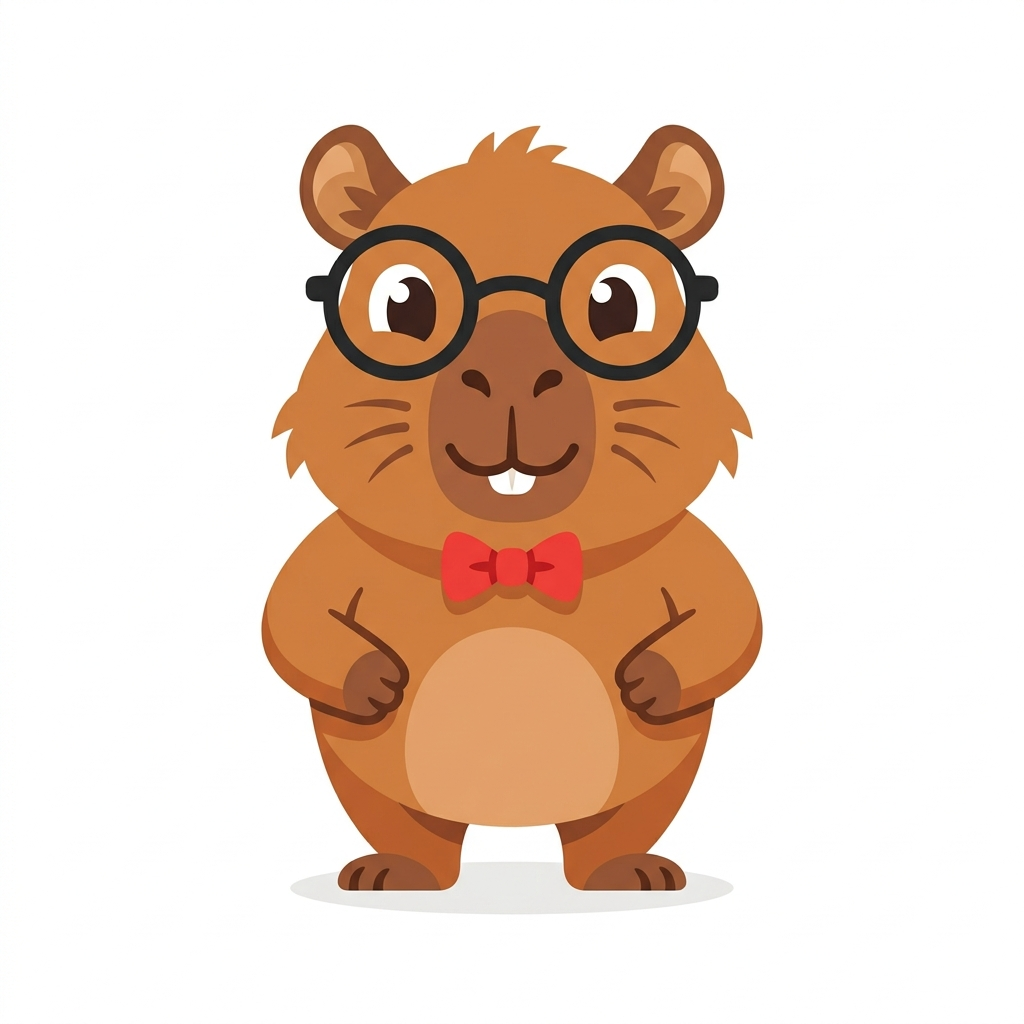
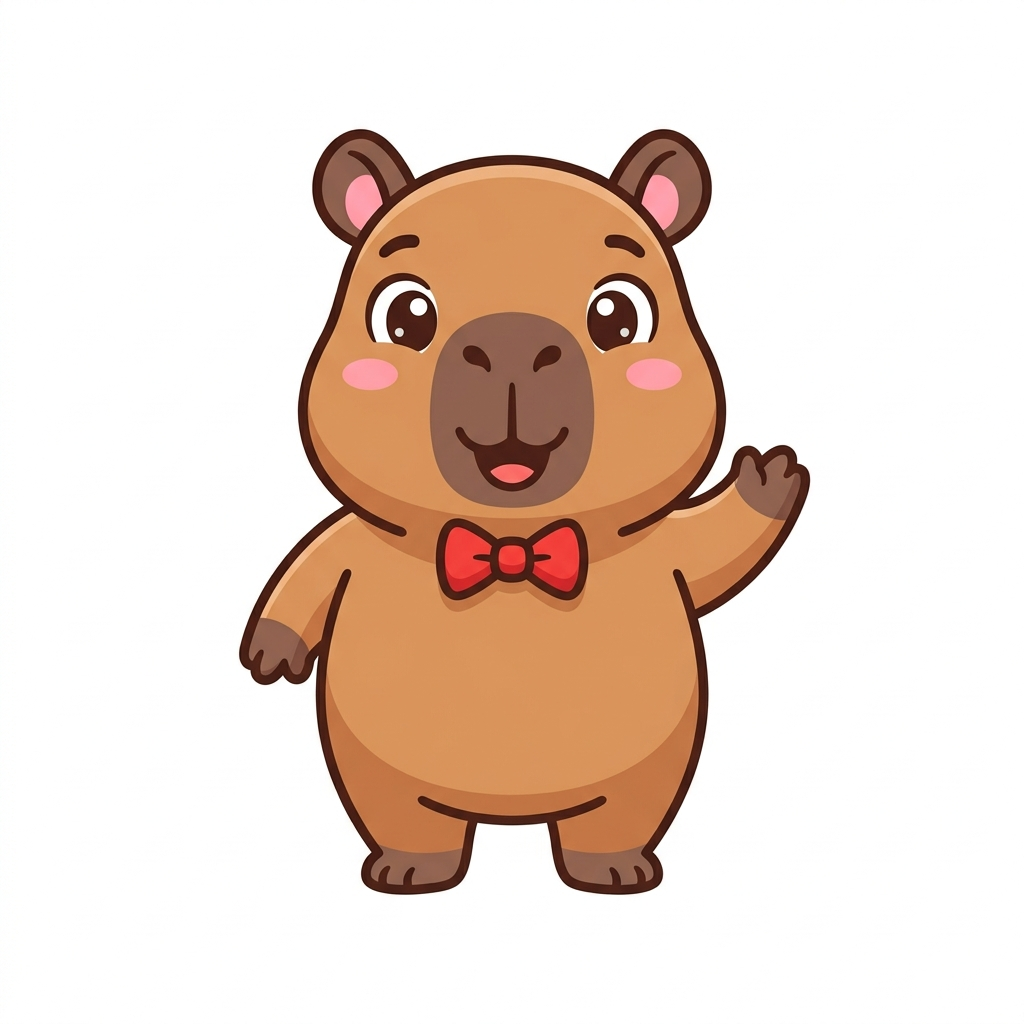
style: updated mascot to be cuter, added framer-motion scroll animations, and vibrant buttons

Changed region(s): [[0.2188, 0.125, 0.8125, 0.9062]]

diff --git a/components/landing/LandingContent.tsx b/components/landing/LandingContent.tsx
@@ -7,6 +7,28 @@ import { LanguageToggle } from "@/components/dashboard/LanguageToggle";
 import { DemoSection } from "@/components/landing/DemoSection";
 import { useLanguageStore } from "@/store/useLanguageStore";
 import Image from "next/image";
+import { motion } from "framer-motion";
+
+const fadeInUp = {
+  initial: { opacity: 0, y: 40 },
+  whileInView: { opacity: 1, y: 0 },
+  viewport: { once: true, margin: "-100px" },
+  transition: { duration: 0.7, ease: "easeOut" }
+};
+
+const staggerContainer = {
+  initial: { opacity: 0 },
+  whileInView: { opacity: 1 },
+  viewport: { once: true, margin: "-100px" },
+  transition: { staggerChildren: 0.2 }
+};
+
+const scaleUp = {
+  initial: { opacity: 0, scale: 0.9 },
+  whileInView: { opacity: 1, scale: 1 },
+  viewport: { once: true, margin: "-100px" },
+  transition: { duration: 0.6, ease: "easeOut" }
+};
 
 export function LandingContent() {
   const { t, language } = useLanguageStore();
@@ -15,12 +37,12 @@ export function LandingContent() {
     <div className="min-h-screen bg-background text-foreground overflow-x-hidden">
       {/* Light, friendly background accents */}
       <div className="fixed inset-0 z-0 pointer-events-none overflow-hidden bg-slate-50">
-        <div className="absolute top-[-10%] left-[-10%] w-[80vw] sm:w-[50vw] h-[80vw] sm:h-[50vw] bg-blue-100/60 rounded-full blur-3xl opacity-50" />
-        <div className="absolute top-[20%] right-[-10%] w-[70vw] sm:w-[40vw] h-[90vw] sm:h-[60vw] bg-purple-100/60 rounded-full blur-3xl opacity-50" />
-        <div className="absolute bottom-[-20%] left-[15%] w-[90vw] sm:w-[60vw] h-[80vw] sm:h-[50vw] bg-rose-100/60 rounded-full blur-3xl opacity-50" />
+        <div className="absolute top-[-10%] left-[-10%] w-[80vw] sm:w-[50vw] h-[80vw] sm:h-[50vw] bg-blue-200/50 rounded-full blur-3xl opacity-60" />
+        <div className="absolute top-[20%] right-[-10%] w-[70vw] sm:w-[40vw] h-[90vw] sm:h-[60vw] bg-purple-200/50 rounded-full blur-3xl opacity-60" />
+        <div className="absolute bottom-[-20%] left-[15%] w-[90vw] sm:w-[60vw] h-[80vw] sm:h-[50vw] bg-rose-200/50 rounded-full blur-3xl opacity-60" />
       </div>
 
-      <nav className="fixed top-0 w-full border-b border-slate-200 bg-white/80 backdrop-blur-xl z-50 transition-all duration-300">
+      <nav className="fixed top-0 w-full border-b border-slate-200 bg-white/80 backdrop-blur-xl z-50 transition-all duration-300 shadow-sm">
         <div className="container mx-auto px-4 sm:px-6 h-14 sm:h-16 flex items-center justify-between">
           <div className="flex items-center gap-2 sm:gap-3 shrink-0">
             <Image src="/logo.png" alt="Intervio Logo" width={40} height={40} className="h-8 w-8 sm:h-10 sm:w-10 object-contain rounded-xl shadow-sm" />
@@ -34,7 +56,7 @@ export function LandingContent() {
             <Link href="/login" className="text-xs sm:text-sm font-medium text-slate-500 hover:text-primary transition-colors">
               {t('nav_login')}
             </Link>
-            <Button asChild className="bg-primary text-primary-foreground hover:bg-blue-700 rounded-full px-3 sm:px-5 h-8 sm:h-9 text-xs sm:text-sm font-semibold transition-all shadow-md">
+            <Button asChild className="bg-primary text-primary-foreground hover:bg-blue-600 rounded-full px-4 sm:px-6 h-8 sm:h-10 text-xs sm:text-sm font-bold transition-all shadow-lg hover:shadow-primary/30 hover:-translate-y-0.5">
               <Link href="/signup">{t('get_started')}</Link>
             </Button>
           </div>
@@ -45,20 +67,25 @@ export function LandingContent() {
         
         {/* === Hero Section === */}
         <div className="container mx-auto max-w-6xl px-4 sm:px-6 mb-16 sm:mb-24 lg:mb-32 flex flex-col lg:flex-row items-center gap-12">
-          <div className="flex-1 text-center lg:text-left">
-            <div className="inline-flex items-center gap-1.5 sm:gap-2 px-3 sm:px-4 py-1.5 sm:py-2 rounded-full bg-blue-50 border border-blue-100 text-blue-700 text-xs sm:text-sm mb-4 sm:mb-6 font-medium shadow-sm">
-              <CheckCircle2 className="h-3.5 w-3.5 sm:h-4 sm:w-4 shrink-0" />
+          <motion.div 
+            className="flex-1 text-center lg:text-left"
+            initial={{ opacity: 0, x: -50 }}
+            animate={{ opacity: 1, x: 0 }}
+            transition={{ duration: 0.8, ease: "easeOut" }}
+          >
+            <div className="inline-flex items-center gap-1.5 sm:gap-2 px-4 py-2 rounded-full bg-blue-100 border border-blue-200 text-blue-700 text-xs sm:text-sm mb-6 font-bold shadow-sm">
+              <CheckCircle2 className="h-4 w-4 shrink-0" />
               <span>{t('hero_badge')}</span>
             </div>
 
-            <h1 suppressHydrationWarning className="text-4xl sm:text-5xl md:text-6xl lg:text-[72px] font-extrabold tracking-tight mb-4 sm:mb-6 leading-[1.1] text-slate-900">
+            <h1 suppressHydrationWarning className="text-4xl sm:text-5xl md:text-6xl lg:text-[72px] font-extrabold tracking-tight mb-6 leading-[1.1] text-slate-900 drop-shadow-sm">
               {t('hero_h1_1')}{" "}
               <br className="sm:hidden" />
               {t('hero_h1_2')}{" "}
               <span className="text-transparent bg-clip-text bg-gradient-to-r from-blue-600 to-indigo-600">{t('hero_h1_3')} AI</span>
             </h1>
 
-            <p className="text-base sm:text-lg md:text-xl text-slate-600 mb-8 sm:mb-10 max-w-2xl mx-auto lg:mx-0 leading-relaxed font-medium px-2 lg:px-0">
+            <p className="text-base sm:text-lg md:text-xl text-slate-600 mb-8 max-w-2xl mx-auto lg:mx-0 leading-relaxed font-medium px-2 lg:px-0">
               {t('hero_subtext')}
             </p>
 
@@ -66,141 +93,184 @@ export function LandingContent() {
               <DemoSection />
             </div>
 
-            <div className="flex flex-col sm:flex-row flex-wrap items-center justify-center lg:justify-start gap-3 sm:gap-6 mt-6 sm:mt-8 text-xs sm:text-sm text-slate-500 font-medium">
-              <span className="flex items-center gap-1.5"><CheckCircle2 className="h-4 w-4 text-emerald-500" /> {t('trust_1')}</span>
-              <span className="flex items-center gap-1.5"><CheckCircle2 className="h-4 w-4 text-emerald-500" /> {t('trust_2')}</span>
-              <span className="flex items-center gap-1.5"><CheckCircle2 className="h-4 w-4 text-emerald-500" /> {t('trust_3')}</span>
+            <div className="flex flex-col sm:flex-row flex-wrap items-center justify-center lg:justify-start gap-4 mt-8 text-xs sm:text-sm text-slate-500 font-bold">
+              <span className="flex items-center gap-1.5"><CheckCircle2 className="h-5 w-5 text-emerald-500" /> {t('trust_1')}</span>
+              <span className="flex items-center gap-1.5"><CheckCircle2 className="h-5 w-5 text-emerald-500" /> {t('trust_2')}</span>
+              <span className="flex items-center gap-1.5"><CheckCircle2 className="h-5 w-5 text-emerald-500" /> {t('trust_3')}</span>
             </div>
-          </div>
+          </motion.div>
           
-          <div className="flex-1 flex justify-center lg:justify-end animate-fade-in-up">
-            <div className="relative">
-              <div className="absolute inset-0 bg-blue-200/50 rounded-full blur-3xl scale-90" />
-              <Image src="/mascot.png" alt="Coach Cappy - The Capybara" width={420} height={420} className="object-contain relative z-10 drop-shadow-2xl" priority />
+          <motion.div 
+            className="flex-1 flex justify-center lg:justify-end"
+            initial={{ opacity: 0, scale: 0.8 }}
+            animate={{ opacity: 1, scale: 1 }}
+            transition={{ duration: 0.8, delay: 0.2, ease: "easeOut" }}
+          >
+            <div className="relative group">
+              <div className="absolute inset-0 bg-blue-300/40 rounded-full blur-3xl scale-90 group-hover:scale-110 transition-transform duration-700" />
+              <Image 
+                src="/mascot.png" 
+                alt="Coach Cappy - The Capybara" 
+                width={480} 
+                height={480} 
+                className="object-contain relative z-10 drop-shadow-2xl mix-blend-multiply transition-transform duration-500 hover:scale-105 hover:-rotate-2" 
+                priority 
+              />
             </div>
-          </div>
+          </motion.div>
         </div>
 
         {/* === Interactive App Preview Section === */}
-        <div className="container mx-auto px-4 sm:px-6 mb-16 sm:mb-32 lg:mb-40">
-          <div className="max-w-5xl mx-auto rounded-3xl bg-white p-2 ring-1 ring-slate-200 shadow-[0_20px_50px_-12px_rgba(0,0,0,0.1)] relative overflow-hidden group">
-            
-            <div className="rounded-2xl bg-slate-50 overflow-hidden border border-slate-100 relative">
-              <div className="absolute top-8 right-8 bg-white/90 backdrop-blur-md rounded-xl p-4 border border-slate-200 hidden md:flex items-center gap-4 shadow-lg animate-bounce" style={{ animationDuration: '4s' }}>
-                <div className="h-10 w-10 rounded-full bg-yellow-100 flex items-center justify-center">
-                  <Star className="h-5 w-5 text-yellow-600" />
+        <motion.div 
+          className="container mx-auto px-4 sm:px-6 mb-16 sm:mb-32 lg:mb-40"
+          {...scaleUp}
+        >
+          <div className="max-w-5xl mx-auto rounded-[2rem] bg-white p-3 ring-1 ring-slate-200 shadow-[0_30px_60px_-15px_rgba(37,99,235,0.15)] relative overflow-hidden group">
+            <div className="rounded-3xl bg-gradient-to-br from-slate-50 to-blue-50/30 overflow-hidden border border-slate-100 relative">
+              
+              <motion.div 
+                className="absolute top-8 right-8 bg-white/90 backdrop-blur-md rounded-2xl p-5 border border-slate-200 hidden md:flex items-center gap-4 shadow-xl z-20"
+                initial={{ y: 20, opacity: 0 }}
+                whileInView={{ y: 0, opacity: 1 }}
+                viewport={{ once: true }}
+                transition={{ delay: 0.5 }}
+                animate={{ y: [0, -10, 0] }}
+                style={{ animation: 'float 4s ease-in-out infinite' }}
+              >
+                <div className="h-12 w-12 rounded-full bg-yellow-100 flex items-center justify-center">
+                  <Star className="h-6 w-6 text-yellow-600" />
                 </div>
                 <div>
-                  <p className="text-sm font-bold text-slate-800">STAR Method</p>
-                  <p className="text-xs font-semibold text-emerald-600">Excellent Example</p>
+                  <p className="text-base font-bold text-slate-800">STAR Method</p>
+                  <p className="text-sm font-bold text-emerald-600">Excellent Example</p>
                 </div>
-              </div>
+              </motion.div>
 
-              <div className="p-6 sm:p-12 flex flex-col items-center justify-center min-h-[300px] sm:min-h-[450px] relative">
-                <div className="flex items-center justify-center w-20 h-20 sm:w-28 sm:h-28 rounded-full bg-white shadow-xl mb-6 sm:mb-8 relative border-4 border-blue-50">
-                   <Image src="/mascot.png" alt="Mascot" width={70} height={70} className="object-contain" />
+              <div className="p-8 sm:p-16 flex flex-col items-center justify-center min-h-[350px] sm:min-h-[500px] relative">
+                <div className="flex items-center justify-center w-24 h-24 sm:w-32 sm:h-32 rounded-full bg-white shadow-2xl mb-8 relative border-4 border-blue-100 z-10 hover:scale-110 transition-transform duration-300">
+                   <Image src="/mascot.png" alt="Mascot" width={90} height={90} className="object-contain mix-blend-multiply" />
                 </div>
-                <div className="text-center max-w-lg px-4">
-                  <div className="inline-block px-4 py-2 rounded-2xl bg-blue-100 text-blue-800 text-sm sm:text-base font-medium mb-4 sm:mb-6 shadow-sm border border-blue-200">
+                <div className="text-center max-w-xl px-4 z-10">
+                  <div className="inline-block px-5 py-2.5 rounded-full bg-blue-100 text-blue-800 text-sm sm:text-base font-bold mb-6 shadow-sm border border-blue-200">
                     &quot;{t('mockup_speaking')}&quot;
                   </div>
-                  <h3 className="text-lg sm:text-3xl font-bold text-slate-800 mb-2 leading-tight">{t('mockup_question')}</h3>
+                  <h3 className="text-xl sm:text-4xl font-extrabold text-slate-800 mb-2 leading-tight">{t('mockup_question')}</h3>
                 </div>
+                
+                {/* Decorative background grid */}
+                <div className="absolute inset-0 bg-[url('/grid.svg')] bg-center opacity-30 pointer-events-none" />
               </div>
             </div>
           </div>
-        </div>
+        </motion.div>
 
         {/* === How it Works Section === */}
-        <div className="bg-white border-y border-slate-200 py-16 sm:py-24 relative overflow-hidden">
+        <div className="bg-white border-y border-slate-200 py-20 sm:py-32 relative overflow-hidden">
           <div className="container mx-auto px-4 sm:px-6 max-w-6xl">
-            <div className="text-center mb-10 sm:mb-16">
-               <div className="inline-flex items-center px-4 py-1.5 rounded-full bg-purple-100 text-purple-700 text-xs font-bold uppercase tracking-widest mb-4">{t('how_it_works_badge')}</div>
-              <h2 className="text-3xl sm:text-4xl md:text-5xl font-extrabold tracking-tight mb-4 text-slate-900">{t('how_it_works_title')}</h2>
-              <p className="text-slate-600 text-base sm:text-lg px-4 max-w-2xl mx-auto font-medium">{t('how_it_works_sub')}</p>
-            </div>
+            <motion.div 
+              className="text-center mb-16 sm:mb-20"
+              {...fadeInUp}
+            >
+               <div className="inline-flex items-center px-4 py-2 rounded-full bg-purple-100 text-purple-700 text-sm font-extrabold uppercase tracking-widest mb-6 shadow-sm">{t('how_it_works_badge')}</div>
+              <h2 className="text-3xl sm:text-5xl md:text-6xl font-black tracking-tight mb-6 text-slate-900">{t('how_it_works_title')}</h2>
+              <p className="text-slate-600 text-lg sm:text-xl px-4 max-w-2xl mx-auto font-medium">{t('how_it_works_sub')}</p>
+            </motion.div>
 
-            <div className="grid grid-cols-1 md:grid-cols-3 gap-6 sm:gap-8">
-              <div className="bg-slate-50 rounded-3xl overflow-hidden border border-slate-200 shadow-sm flex flex-col group hover:shadow-lg transition-all hover:-translate-y-1">
-                 <div className="h-56 bg-blue-100/50 p-6 flex flex-col items-center justify-center relative">
-                    <div className="w-[85%] bg-white rounded-2xl border border-slate-100 p-5 shadow-sm z-10">
-                        <div className="flex items-center gap-3 mb-4">
-                            <div className="h-10 w-10 rounded-full bg-blue-100 flex items-center justify-center">
-                                <Image src="/mascot.png" alt="Mascot" width={24} height={24} />
+            <motion.div 
+              className="grid grid-cols-1 md:grid-cols-3 gap-8 sm:gap-10"
+              variants={staggerContainer}
+              initial="initial"
+              whileInView="whileInView"
+              viewport={{ once: true, margin: "-100px" }}
+            >
+              <motion.div variants={fadeInUp} className="bg-slate-50 rounded-[2.5rem] overflow-hidden border border-slate-200 shadow-md flex flex-col group hover:shadow-xl transition-all duration-300 hover:-translate-y-2">
+                 <div className="h-64 bg-gradient-to-br from-blue-100 to-blue-50 p-6 flex flex-col items-center justify-center relative">
+                    <div className="w-[85%] bg-white rounded-2xl border border-slate-200 p-6 shadow-md z-10 group-hover:scale-105 transition-transform duration-500">
+                        <div className="flex items-center gap-4 mb-5">
+                            <div className="h-12 w-12 rounded-full bg-blue-100 flex items-center justify-center overflow-hidden">
+                                <Image src="/mascot.png" alt="Mascot" width={32} height={32} className="mix-blend-multiply" />
                             </div>
-                            <div className="text-sm text-slate-700 font-bold">Cappy is speaking...</div>
+                            <div className="text-base text-slate-800 font-bold">Cappy is speaking...</div>
                         </div>
-                        <div className="space-y-3">
-                            <div className="h-2 w-full bg-slate-100 rounded-full" />
-                            <div className="h-2 w-4/5 bg-slate-200 rounded-full animate-pulse" />
+                        <div className="space-y-4">
+                            <div className="h-2.5 w-full bg-slate-100 rounded-full" />
+                            <div className="h-2.5 w-4/5 bg-blue-200 rounded-full animate-pulse" />
                         </div>
                     </div>
                  </div>
-                 <div className="p-8 flex-1 bg-white">
-                    <h3 className="text-xl font-bold mb-3 text-slate-900">{t('step1_title')}</h3>
-                    <p className="text-slate-600 text-sm leading-relaxed font-medium">{t('step1_desc')}</p>
+                 <div className="p-10 flex-1 bg-white">
+                    <h3 className="text-2xl font-extrabold mb-4 text-slate-900">{t('step1_title')}</h3>
+                    <p className="text-slate-600 text-base leading-relaxed font-medium">{t('step1_desc')}</p>
                  </div>
-              </div>
+              </motion.div>
 
-              <div className="bg-slate-50 rounded-3xl overflow-hidden border border-slate-200 shadow-sm flex flex-col group hover:shadow-lg transition-all hover:-translate-y-1">
-                 <div className="h-56 bg-purple-100/50 p-6 flex items-center justify-center relative">
-                    <div className="w-[90%] bg-white rounded-2xl border border-slate-100 p-5 shadow-sm z-10">
-                        <div className="text-sm text-purple-600 font-bold mb-3 flex items-center gap-2">
-                          <Bot className="h-4 w-4" /> Analyzing Answer...
+              <motion.div variants={fadeInUp} className="bg-slate-50 rounded-[2.5rem] overflow-hidden border border-slate-200 shadow-md flex flex-col group hover:shadow-xl transition-all duration-300 hover:-translate-y-2">
+                 <div className="h-64 bg-gradient-to-br from-purple-100 to-purple-50 p-6 flex items-center justify-center relative">
+                    <div className="w-[90%] bg-white rounded-2xl border border-slate-200 p-6 shadow-md z-10 group-hover:scale-105 transition-transform duration-500">
+                        <div className="text-sm text-purple-600 font-extrabold mb-4 flex items-center gap-2">
+                          <Bot className="h-5 w-5" /> Analyzing Answer...
                         </div>
-                        <div className="text-sm text-slate-700 leading-relaxed font-semibold">"<span className="text-purple-700 bg-purple-100 px-1 rounded">Can you share a situation</span> where you had to adapt quickly?"</div>
+                        <div className="text-base text-slate-800 leading-relaxed font-bold">"<span className="text-purple-800 bg-purple-100 px-2 py-0.5 rounded-md">Can you share a situation</span> where you had to adapt quickly?"</div>
                     </div>
                  </div>
-                 <div className="p-8 flex-1 bg-white">
-                    <h3 className="text-xl font-bold mb-3 text-slate-900">{t('step2_title')}</h3>
-                    <p className="text-slate-600 text-sm leading-relaxed font-medium">{t('step2_desc')}</p>
+                 <div className="p-10 flex-1 bg-white">
+                    <h3 className="text-2xl font-extrabold mb-4 text-slate-900">{t('step2_title')}</h3>
+                    <p className="text-slate-600 text-base leading-relaxed font-medium">{t('step2_desc')}</p>
                  </div>
-              </div>
+              </motion.div>
 
-              <div className="bg-slate-50 rounded-3xl overflow-hidden border border-slate-200 shadow-sm flex flex-col group hover:shadow-lg transition-all hover:-translate-y-1">
-                 <div className="h-56 bg-emerald-100/50 p-6 flex items-center justify-center relative gap-6">
-                    <div className="bg-white flex flex-col items-center gap-3 rounded-2xl border border-slate-100 p-5 z-10 shadow-sm group-hover:-translate-y-1 group-hover:-rotate-3 transition-transform">
-                         <div className="h-12 w-12 rounded-full bg-emerald-100 flex items-center justify-center mb-1"><Target className="h-6 w-6 text-emerald-600" /></div>
-                         <div className="h-1.5 w-12 bg-slate-200 rounded-full mb-1" />
-                         <span className="text-[10px] text-emerald-700 font-bold uppercase tracking-wider bg-emerald-50 px-3 py-1 rounded-full border border-emerald-100">Target Job</span>
+              <motion.div variants={fadeInUp} className="bg-slate-50 rounded-[2.5rem] overflow-hidden border border-slate-200 shadow-md flex flex-col group hover:shadow-xl transition-all duration-300 hover:-translate-y-2">
+                 <div className="h-64 bg-gradient-to-br from-emerald-100 to-emerald-50 p-6 flex items-center justify-center relative gap-6">
+                    <div className="bg-white flex flex-col items-center gap-4 rounded-2xl border border-slate-200 p-6 z-10 shadow-md group-hover:-translate-y-2 group-hover:-rotate-6 transition-transform duration-500">
+                         <div className="h-14 w-14 rounded-full bg-emerald-100 flex items-center justify-center mb-1"><Target className="h-7 w-7 text-emerald-600" /></div>
+                         <div className="h-2 w-14 bg-slate-100 rounded-full mb-1" />
+                         <span className="text-xs text-emerald-700 font-extrabold uppercase tracking-wider bg-emerald-50 px-3 py-1.5 rounded-full border border-emerald-100">Target Job</span>
                     </div>
-                    <div className="bg-white flex flex-col items-center gap-3 rounded-2xl border border-slate-100 p-5 z-10 shadow-sm group-hover:-translate-y-1 group-hover:rotate-3 transition-transform">
-                         <div className="h-12 w-12 rounded-full bg-blue-100 flex items-center justify-center mb-1"><FileText className="h-6 w-6 text-blue-600" /></div>
-                         <div className="h-1.5 w-12 bg-slate-200 rounded-full mb-1" />
-                         <span className="text-[10px] text-blue-700 font-bold uppercase tracking-wider bg-blue-50 px-3 py-1 rounded-full border border-blue-100">Your CV</span>
+                    <div className="bg-white flex flex-col items-center gap-4 rounded-2xl border border-slate-200 p-6 z-10 shadow-md group-hover:-translate-y-2 group-hover:rotate-6 transition-transform duration-500">
+                         <div className="h-14 w-14 rounded-full bg-blue-100 flex items-center justify-center mb-1"><FileText className="h-7 w-7 text-blue-600" /></div>
+                         <div className="h-2 w-14 bg-slate-100 rounded-full mb-1" />
+                         <span className="text-xs text-blue-700 font-extrabold uppercase tracking-wider bg-blue-50 px-3 py-1.5 rounded-full border border-blue-100">Your CV</span>
                     </div>
                  </div>
-                 <div className="p-8 flex-1 bg-white">
-                    <h3 className="text-xl font-bold mb-3 text-slate-900">{t('step3_title')}</h3>
-                    <p className="text-slate-600 text-sm leading-relaxed font-medium">{t('step3_desc')}</p>
+                 <div className="p-10 flex-1 bg-white">
+                    <h3 className="text-2xl font-extrabold mb-4 text-slate-900">{t('step3_title')}</h3>
+                    <p className="text-slate-600 text-base leading-relaxed font-medium">{t('step3_desc')}</p>
                  </div>
-              </div>
-            </div>
+              </motion.div>
+            </motion.div>
           </div>
         </div>
 
         {/* === Final CTA === */}
-        <div className="py-20 sm:py-32 bg-gradient-to-br from-blue-50 to-purple-50">
-          <div className="container mx-auto px-4 sm:px-6 text-center max-w-3xl">
-            <h2 className="text-3xl sm:text-4xl md:text-5xl font-extrabold tracking-tight mb-6 sm:mb-8 text-slate-900">{t('cta_title')}</h2>
-            <Button asChild size="lg" className="h-14 sm:h-16 px-10 sm:px-12 text-base sm:text-lg font-bold bg-primary hover:bg-blue-700 text-white rounded-full shadow-xl transition-all hover:scale-105 active:scale-95">
+        <div className="py-24 sm:py-32 bg-gradient-to-br from-blue-50 via-white to-purple-50 relative overflow-hidden">
+          <div className="absolute top-0 right-0 w-[500px] h-[500px] bg-blue-400/10 rounded-full blur-3xl" />
+          <div className="absolute bottom-0 left-0 w-[500px] h-[500px] bg-purple-400/10 rounded-full blur-3xl" />
+          
+          <motion.div 
+            className="container mx-auto px-4 sm:px-6 text-center max-w-4xl relative z-10"
+            {...scaleUp}
+          >
+            <h2 className="text-4xl sm:text-5xl md:text-6xl font-black tracking-tight mb-8 sm:mb-10 text-slate-900 leading-tight">
+              {t('cta_title')}
+            </h2>
+            <Button asChild size="lg" className="h-16 sm:h-20 px-12 sm:px-16 text-lg sm:text-xl font-black bg-primary hover:bg-blue-600 text-white rounded-full shadow-2xl shadow-primary/30 transition-all hover:scale-105 active:scale-95">
               <Link href="/signup">
                 {t('cta_button')}
-                <ArrowRight className="ml-2 h-5 w-5 sm:h-6 sm:w-6" />
+                <ArrowRight className="ml-3 h-6 w-6 sm:h-7 sm:w-7" />
               </Link>
             </Button>
-          </div>
+          </motion.div>
         </div>
 
         {/* Footer */}
         <footer className="border-t border-slate-200 py-12 px-6 bg-white">
           <div className="container mx-auto max-w-6xl">
-            <div className="flex flex-col md:flex-row justify-between items-center gap-4 text-sm text-slate-500 mb-8 font-medium">
-              <div className="flex items-center gap-2">
-                <Image src="/logo.png" alt="Intervio Logo" width={24} height={24} className="h-6 w-6 object-contain rounded" />
+            <div className="flex flex-col md:flex-row justify-between items-center gap-6 text-sm text-slate-500 mb-8 font-bold">
+              <div className="flex items-center gap-3">
+                <Image src="/logo.png" alt="Intervio Logo" width={32} height={32} className="h-8 w-8 object-contain rounded" />
                 <span translate="no" className="notranslate">© {new Date().getFullYear()} Intervio AI. All rights reserved.</span>
               </div>
-              <div className="flex gap-6">
+              <div className="flex gap-8">
                 <Link href="/privacy" className="hover:text-primary transition-colors">{t('footer_privacy')}</Link>
                 <Link href="/terms" className="hover:text-primary transition-colors">{t('footer_terms')}</Link>
               </div>

diff --git a/components/landing/DemoSection.tsx b/components/landing/DemoSection.tsx
@@ -68,7 +68,7 @@ export function DemoSection() {
                 <div className="w-full bg-white border border-slate-200 rounded-3xl p-6 shadow-xl text-left animate-fade-in-up relative overflow-hidden">
                     <div className="absolute top-0 left-0 w-full h-1 bg-gradient-to-r from-blue-400 to-indigo-500" />
                     <div className="flex items-center gap-3 mb-4 text-blue-600">
-                        <Image src="/mascot.png" alt="Mascot" width={28} height={28} className="object-contain" />
+                        <Image src="/mascot.png" alt="Mascot" width={32} height={32} className="object-contain mix-blend-multiply" />
                         <span className="font-bold text-sm">{language === 'tr' ? 'Cappy Soruyor:' : 'Coach Cappy:'}</span>
                     </div>
                     <p className="text-xl font-bold text-slate-800 mb-6 leading-relaxed">{currentQuestion}</p>
@@ -102,7 +102,7 @@ export function DemoSection() {
                 <div className="w-full bg-white border border-slate-200 rounded-3xl p-8 animate-fade-in-up text-left shadow-xl relative overflow-hidden">
                     <div className="absolute top-0 left-0 w-full h-1 bg-gradient-to-r from-emerald-400 to-teal-500" />
                     <div className="flex items-center gap-3 mb-6 text-emerald-600">
-                        <Image src="/mascot.png" alt="Mascot" width={32} height={32} className="object-contain" />
+                        <Image src="/mascot.png" alt="Mascot" width={36} height={36} className="object-contain mix-blend-multiply" />
                         <span className="font-extrabold text-lg">{t("demo_feedback_title")}</span>
                     </div>
                     <div className="bg-emerald-50 border border-emerald-100 rounded-2xl p-5 mb-8 shadow-sm">

diff --git a/app/globals.css b/app/globals.css
@@ -60,7 +60,7 @@
   --card-foreground: oklch(0.2 0 0);
   --popover: oklch(1 0 0);
   --popover-foreground: oklch(0.2 0 0);
-  --primary: oklch(0.55 0.16 260); /* Ocean Blue */
+  --primary: oklch(0.55 0.25 260); /* Extremely vibrant electric blue */
   --primary-foreground: oklch(1 0 0);
   --secondary: oklch(0.97 0.01 260); /* Very light blue */
   --secondary-foreground: oklch(0.3 0.1 260);
